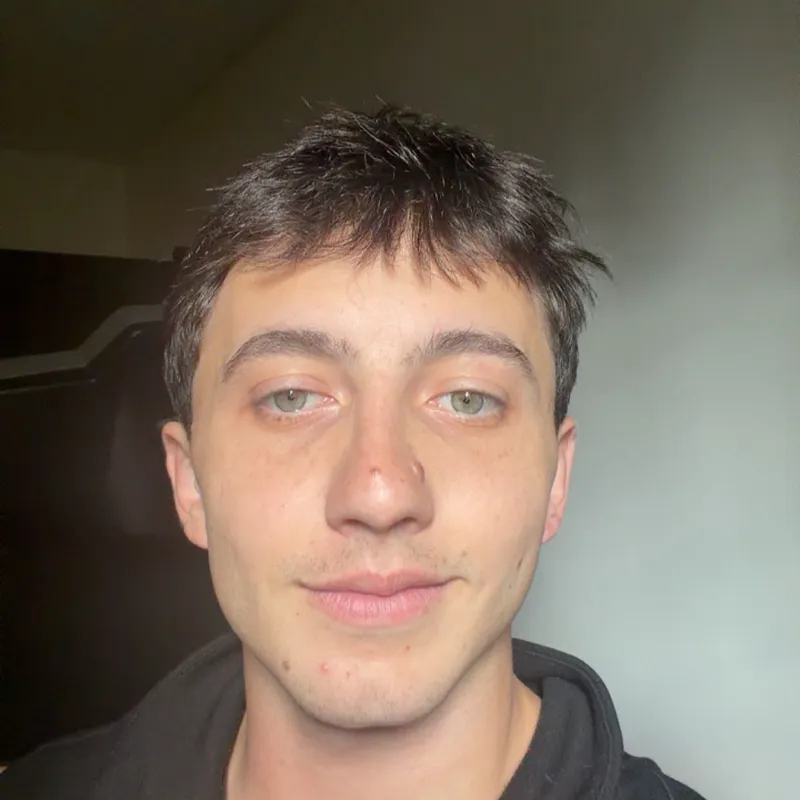
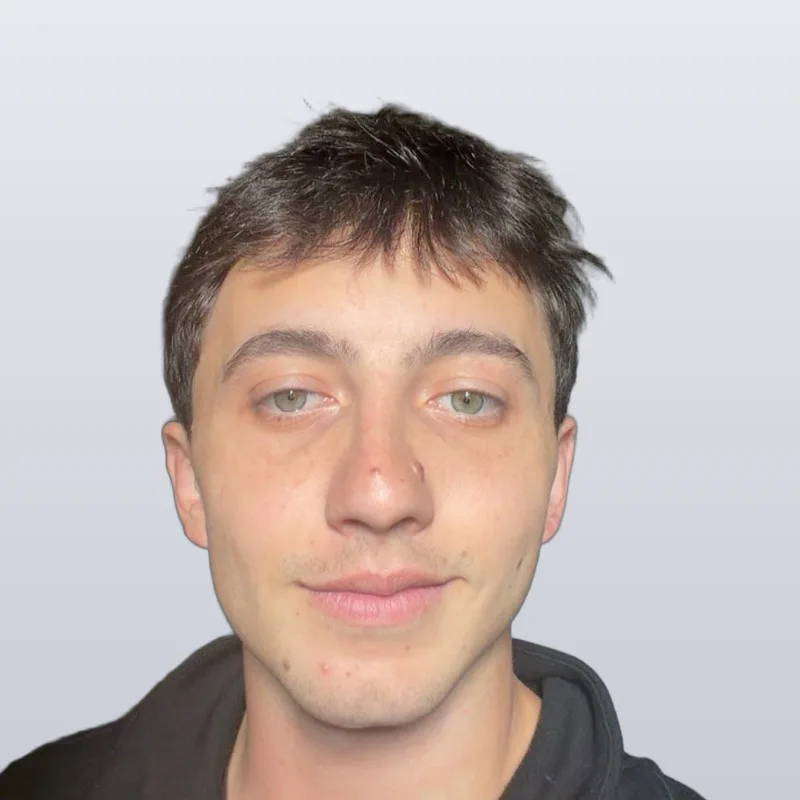
Team page: Anthony's headshot on a soft grey studio background
The background is cut out locally and replaced with a light grey gradient; Evan's
photo will get the same background so the two cards match.

Claude-Session: https://claude.ai/code/session_01HEXquMNwwS9KZDGGLf8ByY

diff --git a/src/content/team.ts b/src/content/team.ts
@@ -1,5 +1,7 @@
 // Words for the "Meet the makers" page (/team). Change copy here, not in the page.
 // Each maker writes (and approves) their own card, in their own words.
+// Photos are square headshots on the same soft grey studio background (#e9eaee to #c9ccd4, top to bottom), so the
+// cards match.
 
 export type Maker = {
   id: string;
